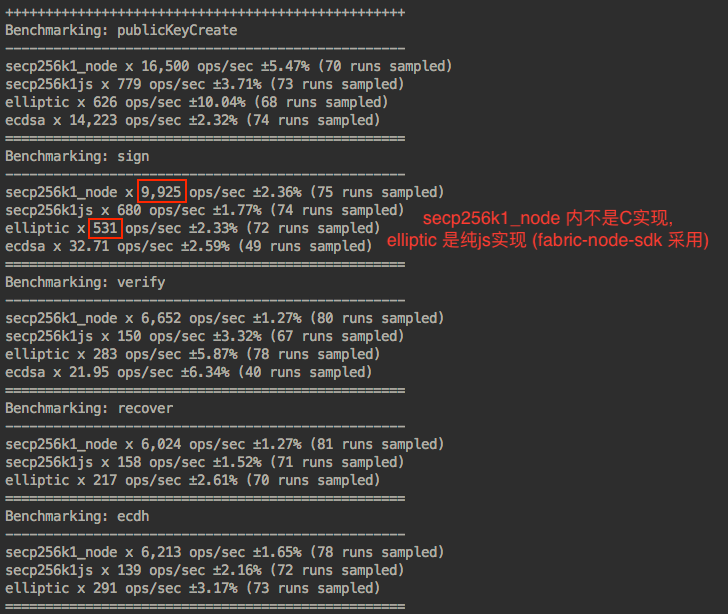
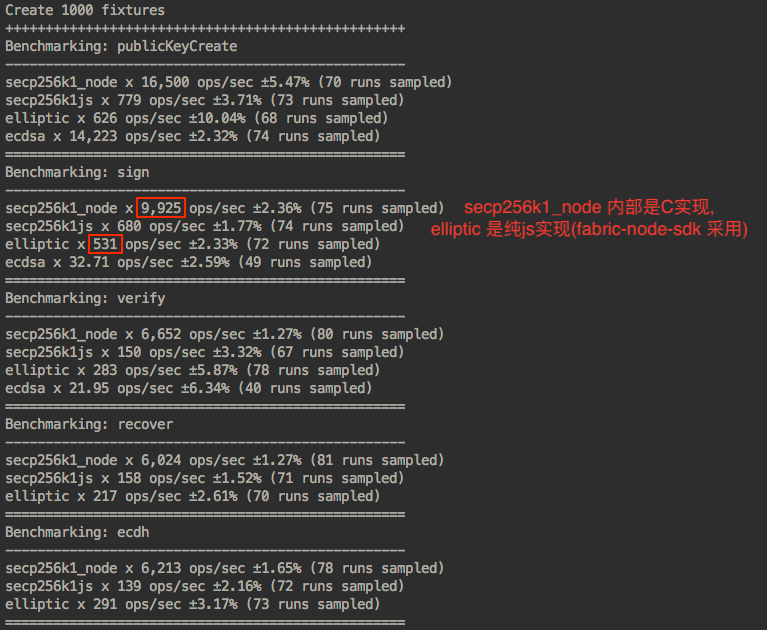
update ec bench table

Changed region(s): [[0.0, 0.0, 0.9973, 1.0]]

diff --git a/blockChain/Fabric/ECDSA/bench.md b/blockChain/Fabric/ECDSA/bench.md
@@ -39,6 +39,14 @@
 - fabric-node-sdk 默认使用`elliptic`版本, 是纯 js 实现, 性能平常, 但支持曲线丰富
 - `scep256k1`使我们压测使用的库, 性能较多, 问题是目前 fabric 使用的曲线是`secp256r1`, 其不支持.
 
+> 主要对比 secp256k1_node(C 实现), 和 elliptic(js 实现)的性能对比
+
+| 签名模块       | 生成 publicKey | sign       | verify     | recovery   | ecdh 握手  |
+| -------------- | -------------- | ---------- | ---------- | ---------- | ---------- |
+| secp256k1_node | 16500 ops/s    | 9925 ops/s | 6652 ops/s | 6024 ops/s | 6213 ops/s |
+| ellipic        | 626 ops/s      | 531 ops/s  | 283 ops/s  | 217 ops/s  | 291 ops/   |
+
+详细指标见下图:
 ![cert](./img/ec_bench.png)
 
 ### ECDSA 签名其他内容
